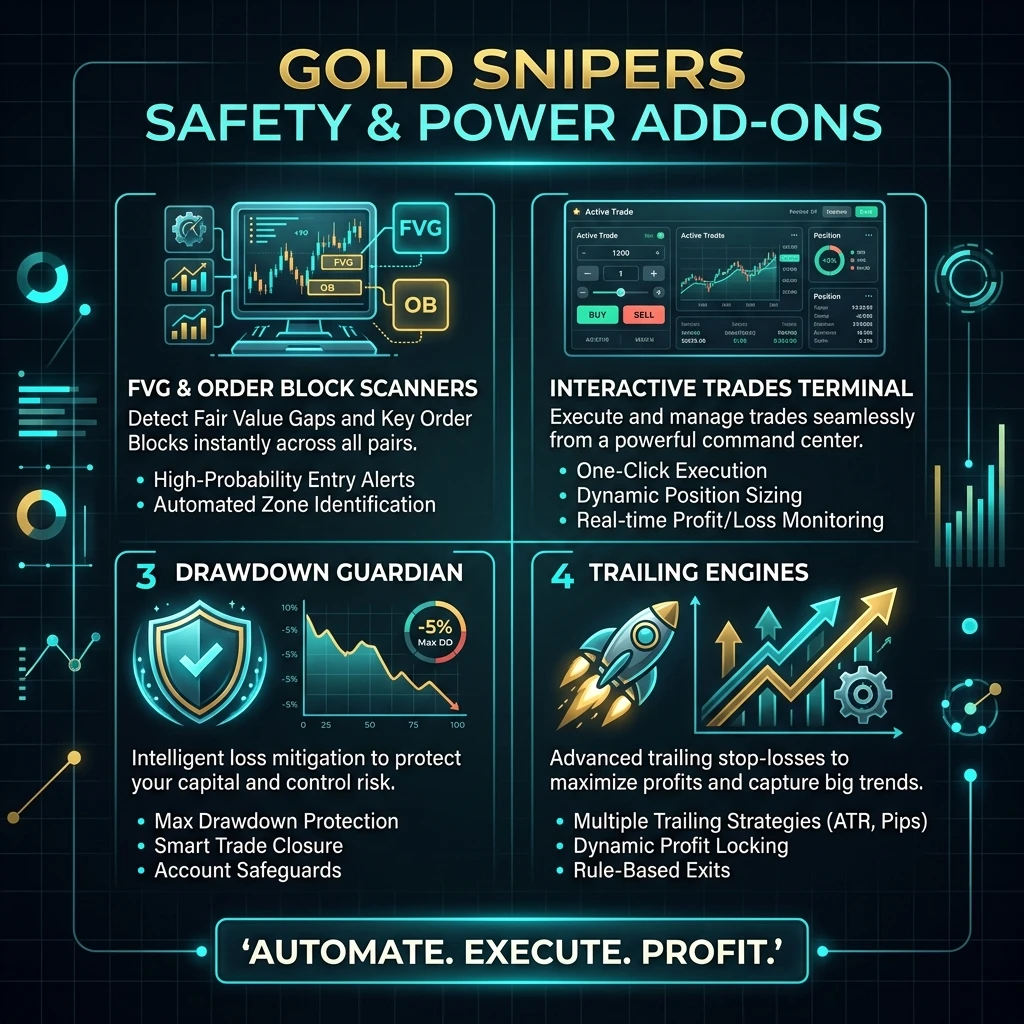
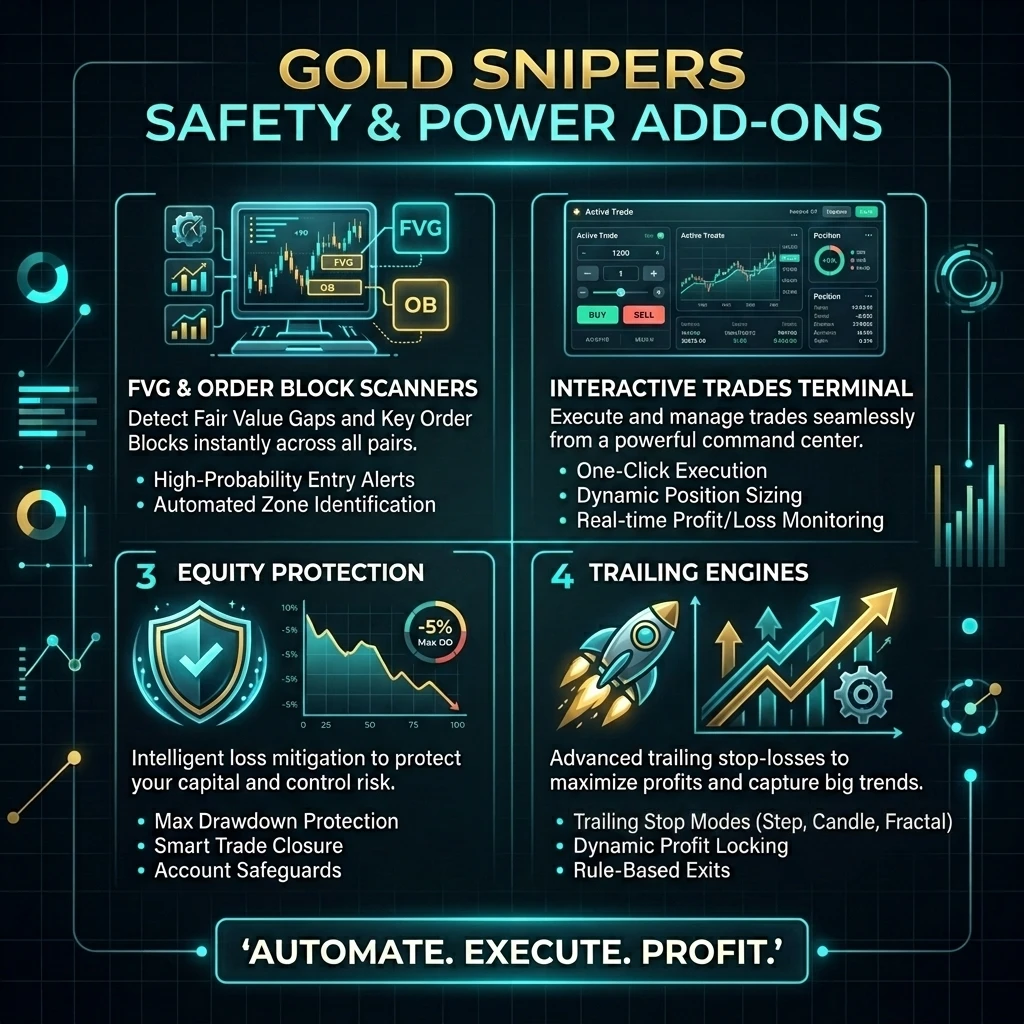
Fix: Restore accordion sidebar, update main content only

diff --git a/doc.html b/doc.html
@@ -65,32 +65,117 @@
             <!-- Table of Contents Sidebar -->
             <aside class="doc-sidebar glass-panel">
     <h3>User Guide Reference</h3>
-    <ul>
-        <li><a href="#welcome">Welcome</a></li>
-        <li><a href="#initial-setup-upgrades-connection-guide">Initial Setup, Upgrades & Connection Guide</a></li>
-        <li><a href="#dashboard-risk-management-setup-metrics">Dashboard Risk Management & Setup Metrics</a></li>
-        <li><a href="#dual-channel-independent-copier-panels">Dual-Channel Independent Copier Panels</a></li>
-        <li><a href="#take-profit-targeting-paging-add-tps">Take Profit Targeting & Paging (+ ADD TPs)</a></li>
-        <li><a href="#5-unified-take-profit-stop-loss-stealth-mode">5 Unified Take Profit & Stop Loss Stealth Mode</a></li>
-        <li><a href="#core-entry-modes-ladder-vs-single">Core Entry Modes: Ladder vs. Single</a></li>
-        <li><a href="#harvesting-adaptive-profit-defense">Harvesting & Adaptive Profit Defense</a></li>
-        <li><a href="#tp-auto-mode-distributed-anchor-deep-runner-engine">TP AUTO Mode (Distributed Anchor & Deep Runner Engine)</a></li>
-        <li><a href="#anchor-strategy-toggles-unified-vs-distributed">Anchor Strategy Toggles (Unified vs. Distributed)</a></li>
-        <li><a href="#precision-break-even-engines-auto-sl-move-be-settings">Precision Break-Even Engines (Auto SL Move & BE Settings)</a></li>
-        <li><a href="#cancel-pending-button-delete-pending-limits-on-tp">CANCEL PENDING Button (Delete Pending Limits on TP)</a></li>
-        <li><a href="#signal-entry-cutoff-telegram-routing">Signal Entry Cutoff & Telegram Routing</a></li>
-        <li><a href="#live-analytics-equity-protect-matrix">Live Analytics & Equity Protect Matrix</a></li>
-        <li><a href="#manual-panel-technical-intel-deck">Manual Panel & Technical Intel Deck</a></li>
-        <li><a href="#intraday-extension-panels-trades-levels-helper">Intraday Extension Panels (Trades & Levels Helper)</a></li>
-        <li><a href="#ergonomic-action-buttons-ui-modes">Ergonomic Action Buttons & UI Modes</a></li>
-        <li><a href="#core-pip-scaling-goldxauusd-scaling">Core Pip Scaling (Gold/XAUUSD Scaling)</a></li>
-        <li><a href="#ui-modes-sync-safety-engines">UI Modes Sync & Safety Engines</a></li>
-        <li><a href="#the-copier-bridge-desktop-engine">The Copier Bridge Desktop Engine</a></li>
-        <li><a href="#performance-execution-engine-upgrades-v36295">Performance & Execution Engine Upgrades (v362.95+)</a></li>
-        <li><a href="#advanced-guide-trade-exclusions-command-routing-copier-workflow">Advanced Guide: Trade Exclusions, Command Routing & Copier Workflow</a></li>
-        <li><a href="#remote-admin-control-panel-telegram-saved-messages">Remote Admin Control Panel (Telegram Saved Messages)</a></li>
-        <li><a href="#mt5-input-settings-reference">MT5 Input Settings Reference</a></li>
+    <style>
+        .doc-sidebar .nav-group { margin-bottom: 4px; }
+        .doc-sidebar .nav-group-header {
+            display: flex; align-items: center; justify-content: space-between;
+            cursor: pointer; padding: 7px 10px; border-radius: 6px;
+            font-size: 0.78rem; font-weight: 700; letter-spacing: 0.04em;
+            text-transform: uppercase; color: #a0a0b0;
+            background: rgba(255,255,255,0.03);
+            transition: background 0.2s, color 0.2s;
+            user-select: none; border: none; width: 100%; text-align: left;
+        }
+        .doc-sidebar .nav-group-header:hover { background: rgba(255,215,0,0.07); color: #ffd700; }
+        .doc-sidebar .nav-group-header.open { color: #ffd700; background: rgba(255,215,0,0.06); }
+        .doc-sidebar .nav-group-header .chevron {
+            font-style: normal; font-size: 0.7rem; transition: transform 0.25s;
+            flex-shrink: 0; margin-left: 6px;
+        }
+        .doc-sidebar .nav-group-header.open .chevron { transform: rotate(90deg); }
+        .doc-sidebar .nav-sub {
+            list-style: none; margin: 0; padding: 0;
+            overflow: hidden; max-height: 0;
+            transition: max-height 0.35s ease;
+        }
+        .doc-sidebar .nav-sub.open { max-height: 1000px; }
+        .doc-sidebar .nav-sub li a {
+            display: block; padding: 5px 10px 5px 18px;
+            font-size: 0.8rem; color: #b0b0c0; border-radius: 5px;
+            text-decoration: none; transition: color 0.2s, background 0.2s;
+            border-left: 2px solid transparent; margin: 1px 0;
+        }
+        .doc-sidebar .nav-sub li a:hover { color: #ffd700; background: rgba(255,215,0,0.05); border-left-color: #ffd700; }
+        .doc-sidebar ul.top-links { list-style: none; margin: 0 0 8px 0; padding: 0; }
+        .doc-sidebar ul.top-links li a {
+            display: block; padding: 6px 10px; font-size: 0.82rem;
+            color: #b0b0c0; border-radius: 6px; text-decoration: none;
+            transition: color 0.2s, background 0.2s;
+        }
+        .doc-sidebar ul.top-links li a:hover { color: #ffd700; background: rgba(255,215,0,0.05); }
+        .doc-sidebar ul.top-links li a.active-link { color: #00d2d3; }
+    </style>
+
+    <!-- Top-level non-grouped links -->
+    <ul class="top-links">
+        <li><a href="#welcome">👋 Welcome</a></li>
+        <li><a href="#initial-setup-upgrades-connection-guide">🚀 Setup &amp; Connection Guide</a></li>
+        <li><a href="#dashboard-risk-management-setup-metrics">📊 Dashboard &amp; Risk Metrics</a></li>
+        <li><a href="#dual-channel-independent-copier-panels">📡 Dual-Channel Copier Panels</a></li>
     </ul>
+
+    <!-- Group: Profit Management -->
+    <div class="nav-group">
+        <button class="nav-group-header open" onclick="toggleGroup(this)">
+            💰 Trade Profit Management <span class="chevron">▶</span>
+        </button>
+        <ul class="nav-sub open">
+            <li><a href="#take-profit-targeting-paging-add-tps">TP Targeting &amp; Paging</a></li>
+            <li><a href="#5-unified-take-profit-stop-loss-stealth-mode">Stealth TP/SL Mode</a></li>
+            <li><a href="#tp-auto-mode-distributed-anchor-deep-runner-engine">TP AUTO Mode</a></li>
+            <li><a href="#anchor-strategy-toggles-unified-vs-distributed">Anchor Strategy Toggles</a></li>
+            <li><a href="#harvesting-adaptive-profit-defense">Harvesting &amp; Profit Defense</a></li>
+            <li><a href="#precision-break-even-engines-auto-sl-move-be-settings">Break-Even Engines</a></li>
+            <li><a href="#cancel-pending-button-delete-pending-limits-on-tp">Cancel Pending on TP</a></li>
+        </ul>
+    </div>
+
+    <!-- Group: Entry & Signals -->
+    <div class="nav-group">
+        <button class="nav-group-header" onclick="toggleGroup(this)">
+            ⚡ Entry &amp; Signal Routing <span class="chevron">▶</span>
+        </button>
+        <ul class="nav-sub">
+            <li><a href="#core-entry-modes-ladder-vs-single">Entry Modes: Ladder vs. Single</a></li>
+            <li><a href="#signal-entry-cutoff-telegram-routing">Signal Cutoff &amp; Routing</a></li>
+        </ul>
+    </div>
+
+    <!-- Group: Dashboard & Analytics -->
+    <div class="nav-group">
+        <button class="nav-group-header" onclick="toggleGroup(this)">
+            📈 Analytics &amp; UI Engines <span class="chevron">▶</span>
+        </button>
+        <ul class="nav-sub">
+            <li><a href="#live-analytics-equity-protect-matrix">Live Analytics &amp; Equity Protect</a></li>
+            <li><a href="#manual-panel-technical-intel-deck">Manual Panel &amp; Intel Deck</a></li>
+            <li><a href="#intraday-extension-panels-trades-levels-helper">Intraday Panels (Trades &amp; Levels)</a></li>
+            <li><a href="#ergonomic-action-buttons-ui-modes">Action Buttons &amp; UI Modes</a></li>
+            <li><a href="#ui-modes-sync-safety-engines">UI Sync &amp; Safety Engines</a></li>
+            <li><a href="#core-pip-scaling-goldxauusd-scaling">Pip Scaling (Gold/XAUUSD)</a></li>
+        </ul>
+    </div>
+
+    <!-- Group: Bridge & Advanced -->
+    <div class="nav-group">
+        <button class="nav-group-header" onclick="toggleGroup(this)">
+            🌉 Bridge &amp; Advanced <span class="chevron">▶</span>
+        </button>
+        <ul class="nav-sub">
+            <li><a href="#the-copier-bridge-desktop-engine">Copier Bridge Desktop Engine</a></li>
+            <li><a href="#performance-execution-engine-upgrades-v36295">Performance &amp; Engine Upgrades</a></li>
+            <li><a href="#advanced-guide-trade-exclusions-command-routing-copier-workflow">Trade Exclusions &amp; Copier Workflow</a></li>
+            <li><a href="#remote-admin-control-panel-telegram-saved-messages">Remote Admin Control Panel</a></li>
+            <li><a href="#mt5-input-settings-reference">MT5 Input Settings Reference</a></li>
+        </ul>
+    </div>
+
+    <script>
+        function toggleGroup(btn) {
+            btn.classList.toggle('open');
+            btn.nextElementSibling.classList.toggle('open');
+        }
+    </script>
 </aside>
 
             <!-- Main Documentation Content -->
@@ -126,18 +211,17 @@
     <p style="margin-left: 15px;">• Feature : Starter Tier : Pro Tier : Expert Tier</p>
     <p style="margin-left: 15px;">• <strong>MT5 Instances</strong> : 1 terminal : Up to 3 terminals : Up to 6 terminals</p>
     <p style="margin-left: 15px;">• <strong>Unique Broker Accounts</strong> : 1 account : Up to 3 accounts : Up to 6 accounts</p>
-    <p style="margin-left: 15px;">• <strong>Trading Symbol Lock</strong> : Gold/XAUUSD only : All Symbols : All Symbols</p>
+    <p style="margin-left: 15px;">• <strong>Trading Symbol Lock</strong> : Gold/XAUUSD only : Unlimited (All Symbols) : Unlimited (All Symbols)</p>
     <p style="margin-left: 15px;">• <strong>Max Grid / TP Levels</strong> : Capped at 3 levels : Capped at 5 levels : Up to 10 levels</p>
     <p style="margin-left: 15px;">• <strong>Stealth TP/SL Mode</strong> : Disabled (Forced to ON) : Allowed (Stealth/ON) : Allowed (Stealth/ON)</p>
-    <p style="margin-left: 15px;">• <strong>Low-Latency Socket IPC</strong> : Disabled (File-based) : Enabled (TCP Sockets) : Enabled (TCP Sockets)</p>
-    <p style="margin-left: 15px;">• <strong>AI Insights</strong> : Disabled : Enabled : Enabled</p>
-    <p style="margin-left: 15px;">• <strong>Analytics Dashboard</strong> : Disabled : Enabled : Enabled</p>
-    <p style="margin-left: 15px;">• <strong>Telegram Bot Control</strong> : Disabled : Enabled : Enabled</p>
+    <p style="margin-left: 15px;">• <strong>Low-Latency Socket IPC</strong> : Disabled (File-based fallback) : Enabled (TCP Sockets) : Enabled (TCP Sockets)</p>
+    <p style="margin-left: 15px;">• <strong>AI Insights Dashboard</strong> : Hidden / Disabled : Enabled : Enabled</p>
+    <p style="margin-left: 15px;">• <strong>Bridge UI Analytics Tab</strong> : Disabled : Enabled : Enabled</p>
+    <p style="margin-left: 15px;">• <strong>Telegram Bot Remote Control</strong> : Disabled : Settings Change only : Full Controls + Inline Buttons</p>
     <ul>
         <li><strong>MT5 Instances:</strong> The number of MetaTrader 5 terminals you can run simultaneously with the Bridge. You can configure multiple instances in the Bridge's API Settings panel (click <strong>Add MT5 Instance</strong>).</li>
         <li><strong>MT5 Accounts:</strong> Each license tier limits the number of unique MT5 broker accounts the EA can register. For example, Starter allows 1 MT5 account, Pro allows 3, and Expert allows 6.</li>
         <li><strong>Manual Trading:</strong> The EA's manual trading panel works on any MT5 terminal where the EA is attached, as long as a valid license key is loaded. No separate manual trading license is needed.</li>
-        <li><strong>Tier Enforcement:</strong> All tier limits are enforced at multiple levels — UI controls are greyed out for restricted features, input parameters are clamped on initialization, and admin commands (Telegram SET) are blocked at the engine level. Switching tiers takes effect on the next bridge restart.</li>
     </ul>
     <h3 style="margin-top: 20px; color: #00d2d3;">⚡ Seamless Upgrades (Zero Re-Configuration)</h3>
     <p>When installing a new version or upgrading the software, you <strong>do not</strong> need to re-enter your credentials or repeat the setup wizard:</p>
@@ -198,47 +282,17 @@
 
 <section id="5-unified-take-profit-stop-loss-stealth-mode" class="doc-section">
     <h2>4.5 Unified Take Profit & Stop Loss Stealth Mode</h2>
-    <p>The <strong>TP/SL Mode</strong> button (on both the Manual and Copier panels) controls how the EA manages your Take Profit and Stop Loss levels. Click the button to cycle through three modes:</p>
-    <h3 style="margin-top: 20px; color: #00d2d3;">TP/SL Modes Explained</h3>
-    <p style="margin-left: 15px;">• Mode : Button Text : What Happens</p>
-    <p style="margin-left: 15px;">• <strong>TP/SL OFF</strong> : <code>TP/SL OFF</code> : No TP or SL levels are managed by the EA. Positions run with no targets.</p>
-    <p style="margin-left: 15px;">• <strong>TP/SL STEALTH</strong> : <code>TP/SL STEALTH</code> : Both TP and SL are hidden from the broker. The EA monitors price locally and closes positions when targets are hit.</p>
-    <p style="margin-left: 15px;">• <strong>TP/SL ON</strong> : <code>TP/SL ON</code> : Hard TP and SL levels are sent directly to the broker. The EA places visible targets on the broker's server.</p>
-    <div class="doc-tip"><strong>💡 Note:</strong> <strong>Note:</strong> Starter tier licenses are forced to <code>TP/SL ON</code> and cannot access Stealth mode.</div>
-    <h3 style="margin-top: 20px; color: #00d2d3;">How Stealth Mode Works</h3>
-    <p>When <strong>TP/SL STEALTH</strong> is active, the EA keeps your real SL and TP targets entirely in its own memory — invisible to your broker. This prevents stop-hunting and spread manipulation.</p>
+    <p>The <strong>Stealth TP/SL Mode</strong> (enabled via <code>TP MODE: STEALTH</code> or setting <code>InpCx_TPMode = 1</code>) allows you to hide your actual profit and loss targets from your broker to avoid stop-hunting and spread manipulation, while maintaining institutional-grade protections.</p>
     <ul>
-        <li><strong>Virtual Targets:</strong> The true, narrow SL and TP targets are stored locally in MT5 Global Variables (<code>GSAE_VSL_</code> and <code>GSAE_VTP_</code>), not on the broker's server.</li>
-        <li><strong>Broker Sees Nothing:</strong> Orders are placed with TP = <code>0</code> and (optionally) a wide Emergency SL as a safety net.</li>
-        <li><strong>Real-Time Monitoring:</strong> The EA's <code>StealthMonitor</code> engine checks every 200ms. When price touches your virtual TP or SL, the EA instantly closes or partially closes the position.</li>
-        <li><strong>All Features Work:</strong> Trailing stop, break-even, harvest, and manual SL/TP adjustments all update the virtual targets locally — nothing is sent to the broker.</li>
+        <li><strong>Broker Target Camouflage:</strong> When Stealth Mode is activated, the EA places orders with a Take Profit of <code>0</code> and a far-out <strong>Emergency Stop Loss</strong> (calculated as your configured SL multiplied by <code>InpEmergencySLMultiplier</code>, protected by the broker's minimum <code>Stops Level</code>). This ensures that your broker sees no active profit targets and only a distant emergency exit line in case of network or power failure.</li>
+        <li><strong>Local Virtual Targets:</strong> The true, narrow virtual SL and TP targets are kept entirely on-chart and persisted to MT5 Global Variables (<code>GSAE_VSL_</code> and <code>GSAE_VTP_</code>).</li>
+        <li><strong>Real-Time Tick Tracking:</strong> The EA's background trading engine monitors price ticks in real-time. The moment the market Bid/Ask price touches your virtual TP or SL, the engine fires instant market execution commands to close your positions.</li>
+        <li><strong>Dynamic Moves Propagation:</strong> Any automated trailing stop moves, manual "PUSH SL" adjustments, or Break-Even locks automatically update your virtual global targets (<code>GSAE_VSL_</code>) locally instead of sending stop modifications to the broker, automatically shifting the broker-side Emergency SL to keep it aligned as a safety net.</li>
+        <li><strong>Tactile Chart Visualization:</strong> Renders premium dashed indicators directly on your chart:</li>
+        <li><strong><code>VTP</code> (Green Dashed Line):</strong> Indicates the current virtual Take Profit target.</li>
+        <li><strong><code>VSL</code> (Red Dashed Line):</strong> Indicates the current virtual Stop Loss target.</li>
+        <li><strong>Clean Local Analytics:</strong> All exits are logged in your local SQLite Analytics database with clear exit comments (e.g. <code>"STEALTH_TP"</code> or <code>"STEALTH_SL"</code>), while broker-side history comments remain completely generic.</li>
     </ul>
-    <h3 style="margin-top: 20px; color: #00d2d3;">Emergency SL Safety Net</h3>
-    <p>When Stealth Mode is active, you can optionally place an <strong>Emergency Stop Loss</strong> on the broker as a safety net. This protects your account if the EA loses connection (terminal crash, internet outage, power failure).</p>
-    <p style="margin-left: 15px;">• Setting : Default : Effect</p>
-    <p style="margin-left: 15px;">• <strong>Use Emergency SL</strong> (<code>InpUseEmergencySL</code>) : <code>false</code> (OFF) : When ON, the broker sees a wide SL beyond your virtual SL as a safety net. When OFF, the broker sees SL = <code>0</code> — fully hidden.</p>
-    <p style="margin-left: 15px;">• <strong>Emergency SL Multiplier</strong> (<code>InpEmergencySLMultiplier</code>) : <code>2.0</code> : How much wider the Emergency SL is compared to your real SL. A multiplier of <code>2.0</code> means the Emergency SL is placed at 2x your normal SL distance.</p>
-    <p><strong>How the Emergency SL works:</strong></p>
-    <ul>
-        <li>Your real SL is at, say, 2450 (50 pips below entry at 2500).</li>
-        <li>With multiplier <code>2.0</code>, the Emergency SL is placed at 2400 (100 pips below entry).</li>
-        <li>If the EA crashes, the broker will close the trade at 2400 — worse than your intended 2450, but prevents unlimited loss.</li>
-        <li>If the EA is running, it monitors the virtual SL at 2450 and closes before the Emergency SL is ever reached.</li>
-    </ul>
-    <p><strong>When to use Emergency SL:</strong></p>
-    <ul>
-        <li><strong>ON</strong> — Recommended for unattended trading (VPS, overnight). Provides a safety net against EA/terminal failures.</li>
-        <li><strong>OFF</strong> — Maximum stealth. The broker sees SL = <code>0</code>, TP = <code>0</code>. No visibility into your targets. Best when you're actively monitoring or accept the disconnect risk.</li>
-    </ul>
-    <h3 style="margin-top: 20px; color: #00d2d3;">Chart Visualization</h3>
-    <p>When Stealth Mode is active, dashed lines can appear on your chart:</p>
-    <ul>
-        <li><strong>VSL (Red Dashed):</strong> Your virtual Stop Loss target. Enable via <code>Show Visual SL Targets on Chart</code> input.</li>
-        <li><strong>VTP (Green Dashed):</strong> Your virtual Take Profit target. Enable via <code>Show Visual TP Targets on Chart</code> input.</li>
-        <li><strong>Emergency SL (Orange Dotted):</strong> The broker-side Emergency SL safety net (only visible when Emergency SL is enabled).</li>
-    </ul>
-    <h3 style="margin-top: 20px; color: #00d2d3;">Analytics & Exit Tracking</h3>
-    <p>All stealth exits are logged in your local SQLite Analytics database with clear exit comments (<code>STEALTH_TP</code> or <code>STEALTH_SL</code>), while broker-side history comments remain completely generic — no trace of stealth mode visible to your broker.</p>
 </section>
 
 <section id="core-entry-modes-ladder-vs-single" class="doc-section">
@@ -357,7 +411,7 @@
     <ul>
         <li><strong>EQUITY PROTECT ($):</strong> A powerful, absolute-dollar safety guardian governing the entire family of trades currently open on the chart.</li>
         <li><strong>Take Profit Kill-Switch (Positive Value):</strong> If you enter a positive number (e.g., <code>1000</code>), the EA monitors your floating Profit. Once the combined profit hits or exceeds this value, it triggers a <strong>Master Clearance</strong> to immediately close all active and pending orders, securing your cash profit.</li>
-        <li><strong>Equity Protection (Negative Value):</strong> If you enter a negative number (e.g., <code>-500</code>), the EA establishes a hard cash-loss floor. If the combined floating drawdown drops to or below this negative threshold, the EA triggers an instant <strong>Master Clearance</strong> to flatten all positions, surgically protecting your account equity from runaway losses.</li>
+        <li><strong>Drawdown Guardian (Negative Value):</strong> If you enter a negative number (e.g., <code>-500</code>), the EA establishes a hard cash-loss floor. If the combined floating drawdown drops to or below this negative threshold, the EA triggers an instant <strong>Master Clearance</strong> to flatten all positions, surgically protecting your account equity from runaway losses.</li>
         <li><strong>Deactivated (0.00):</strong> Setting the field to <code>0.00</code> completely disables the Equity Protect safeguard.</li>
         <li><strong>Profit Telemetry:</strong> Displays your cumulative, real-time floating profit or loss (P&L) for all active grid entries on the current chart. Dynamically updates color from <strong>Green (Profitable)</strong> to <strong>Red (Drawdown)</strong> for instant visual assessment.</li>
         <li><strong>Spread Tracker:</strong> Measures and displays the broker's real-time Ask/Bid spread directly on the dashboard, helping you gauge liquidity and entry conditions.</li>
@@ -699,9 +753,7 @@
     <p>Default startup settings and core risk parameters.</p>
     <p style="margin-left: 15px;">• Parameter : Type : Default Value : Description</p>
     <p style="margin-left: 15px;">• <code>InpStartupMode</code> : Enum : <code>STARTUP_COPIER</code> : UI view mode on startup: <code>STARTUP_COPIER</code> (Mini Copier Panel), <code>STARTUP_FULL</code> (Side-by-Side Panel), <code>STARTUP_MANUAL</code> (Manual Only).</p>
-    <p style="margin-left: 15px;">• <code>InpUiMode</code> : Enum : <code>UI_MODE_RESIZE</code> : Panel scaling mode. <code>Enabled</code> — drag the bottom-right corner to resize the EA panel. <code>Disabled</code> — fixed-size panel, use Windows DPI scaling instead.</p>
-    <p style="margin-left: 15px;">• <code>InpFontDpiAdj</code> : Enum : <code>FONT_DPI_DYNAMIC</code> : Font DPI compensation. <code>Dynamic</code> — auto-reduces font size based on monitor DPI. <code>Off</code> — no adjustment. <code>Manual</code> — use <code>InpFontDpiManual</code> value.</p>
-    <p style="margin-left: 15px;">• <code>InpFontDpiManual</code> : Int : <code>1</code> : Font reduction in points. Only used when <code>InpFontDpiAdj</code> is set to <code>Manual</code>.</p>
+    <p style="margin-left: 15px;">• <code>InpMinimalCustomerUI</code> : Bool : <code>true</code> : Toggles a simplified dashboard layout, hiding advanced parameter settings from the chart.</p>
     <p style="margin-left: 15px;">• <code>InpEnableTelegram</code> : Bool : <code>true</code> : Master toggle to enable processing of incoming signal files from the Telegram Bridge.</p>
     <p style="margin-left: 15px;">• <code>InpLotSize</code> : Double : <code>0.01</code> : Default lot size per trade for manual dashboard orders.</p>
     <p style="margin-left: 15px;">• <code>InpStopLossPips</code> : Double : <code>50.0</code> : Default protective Stop Loss distance in pips for manual trades.</p>
@@ -711,14 +763,6 @@
     <p style="margin-left: 15px;">• <code>InpATR_TP1_Mult</code> : Double : <code>1.5</code> : Volatility multiplier used to calculate the dynamic TP1 target.</p>
     <p style="margin-left: 15px;">• <code>InpMagic</code> : Int : <code>26022791</code> : EA Magic Number. Uniquely labels and isolates this EA instance's trades on the account.</p>
     <p style="margin-left: 15px;">• <code>InpDefaultEquityProtect</code> : Double : <code>0.0</code> : Startup Equity Protection target ($): A positive value acts as a profit target; a negative value acts as a drawdown cash floor. <code>0.0</code> disables.</p>
-    <h3 style="margin-top: 20px; color: #00d2d3;">🖥️ Panel Scaling & DPI</h3>
-    <p style="margin-left: 15px;">• Resize : Font DPI : What the user gets</p>
-    <p style="margin-left: 15px;">• Enabled : Dynamic : Drag to resize panel + font auto-adjusts for high-DPI monitors. Best for most users.</p>
-    <p style="margin-left: 15px;">• Enabled : Off : Drag to resize panel + no font changes. Good if text looks fine already.</p>
-    <p style="margin-left: 15px;">• Enabled : Manual : Drag to resize panel + you pick exactly how many points to reduce font by.</p>
-    <p style="margin-left: 15px;">• Disabled : Dynamic : Fixed panel size + font auto-adjusts for DPI. Use this if you prefer Windows to handle scaling.</p>
-    <p style="margin-left: 15px;">• Disabled : Off : Fixed panel + no font changes.</p>
-    <p style="margin-left: 15px;">• Disabled : Manual : Fixed panel + you pick the font reduction.</p>
     <h3 style="margin-top: 20px; color: #00d2d3;">📊 Visual FVG & Order Blocks</h3>
     <p>Settings for the Fair Value Gap (FVG) and Order Block (OB) scanner and on-chart visualizations.</p>
     <p style="margin-left: 15px;">• Parameter : Type : Default Value : Description</p>
@@ -768,9 +812,6 @@
     <p style="margin-left: 15px;">• Parameter : Type : Default Value : Description</p>
     <p style="margin-left: 15px;">• <code>InpEnableAutoSLM</code> : Bool : <code>true</code> : Toggles whether the auto Stop Loss move to Break-Even is active on startup.</p>
     <p style="margin-left: 15px;">• <code>InpShowVirtualTPs</code> : Bool : <code>false</code> : If true, renders visual stealth TP lines on the chart.</p>
-    <p style="margin-left: 15px;">• <code>InpShowVirtualSL</code> : Bool : <code>false</code> : If true, renders visual stealth SL lines on the chart.</p>
-    <p style="margin-left: 15px;">• <code>InpUseEmergencySL</code> : Bool : <code>false</code> : If true, places a wide Emergency SL on the broker as a safety net during Stealth Mode. If false, the broker sees SL = 0 (fully hidden).</p>
-    <p style="margin-left: 15px;">• <code>InpEmergencySLMultiplier</code> : Double : <code>2.0</code> : How much wider the Emergency SL is compared to your real SL. Only applies when <code>InpUseEmergencySL</code> is true.</p>
     <p style="margin-left: 15px;">• <code>InpTP1_TriggerLevel</code> : Int : <code>3</code> (TP3) : The TP target milestone that triggers the first auto Break-Even move.</p>
     <p style="margin-left: 15px;">• <code>InpBreakEvenLockPips</code> : Double : <code>1.0</code> : Pip cushion added to the entry price when moving Stop Loss to Break-Even.</p>
     <p style="margin-left: 15px;">• <code>InpManualSLPushPips</code> : Double : <code>10.0</code> : Distance in pips used when hitting the manual "PUSH SL" button on the dashboard.</p>